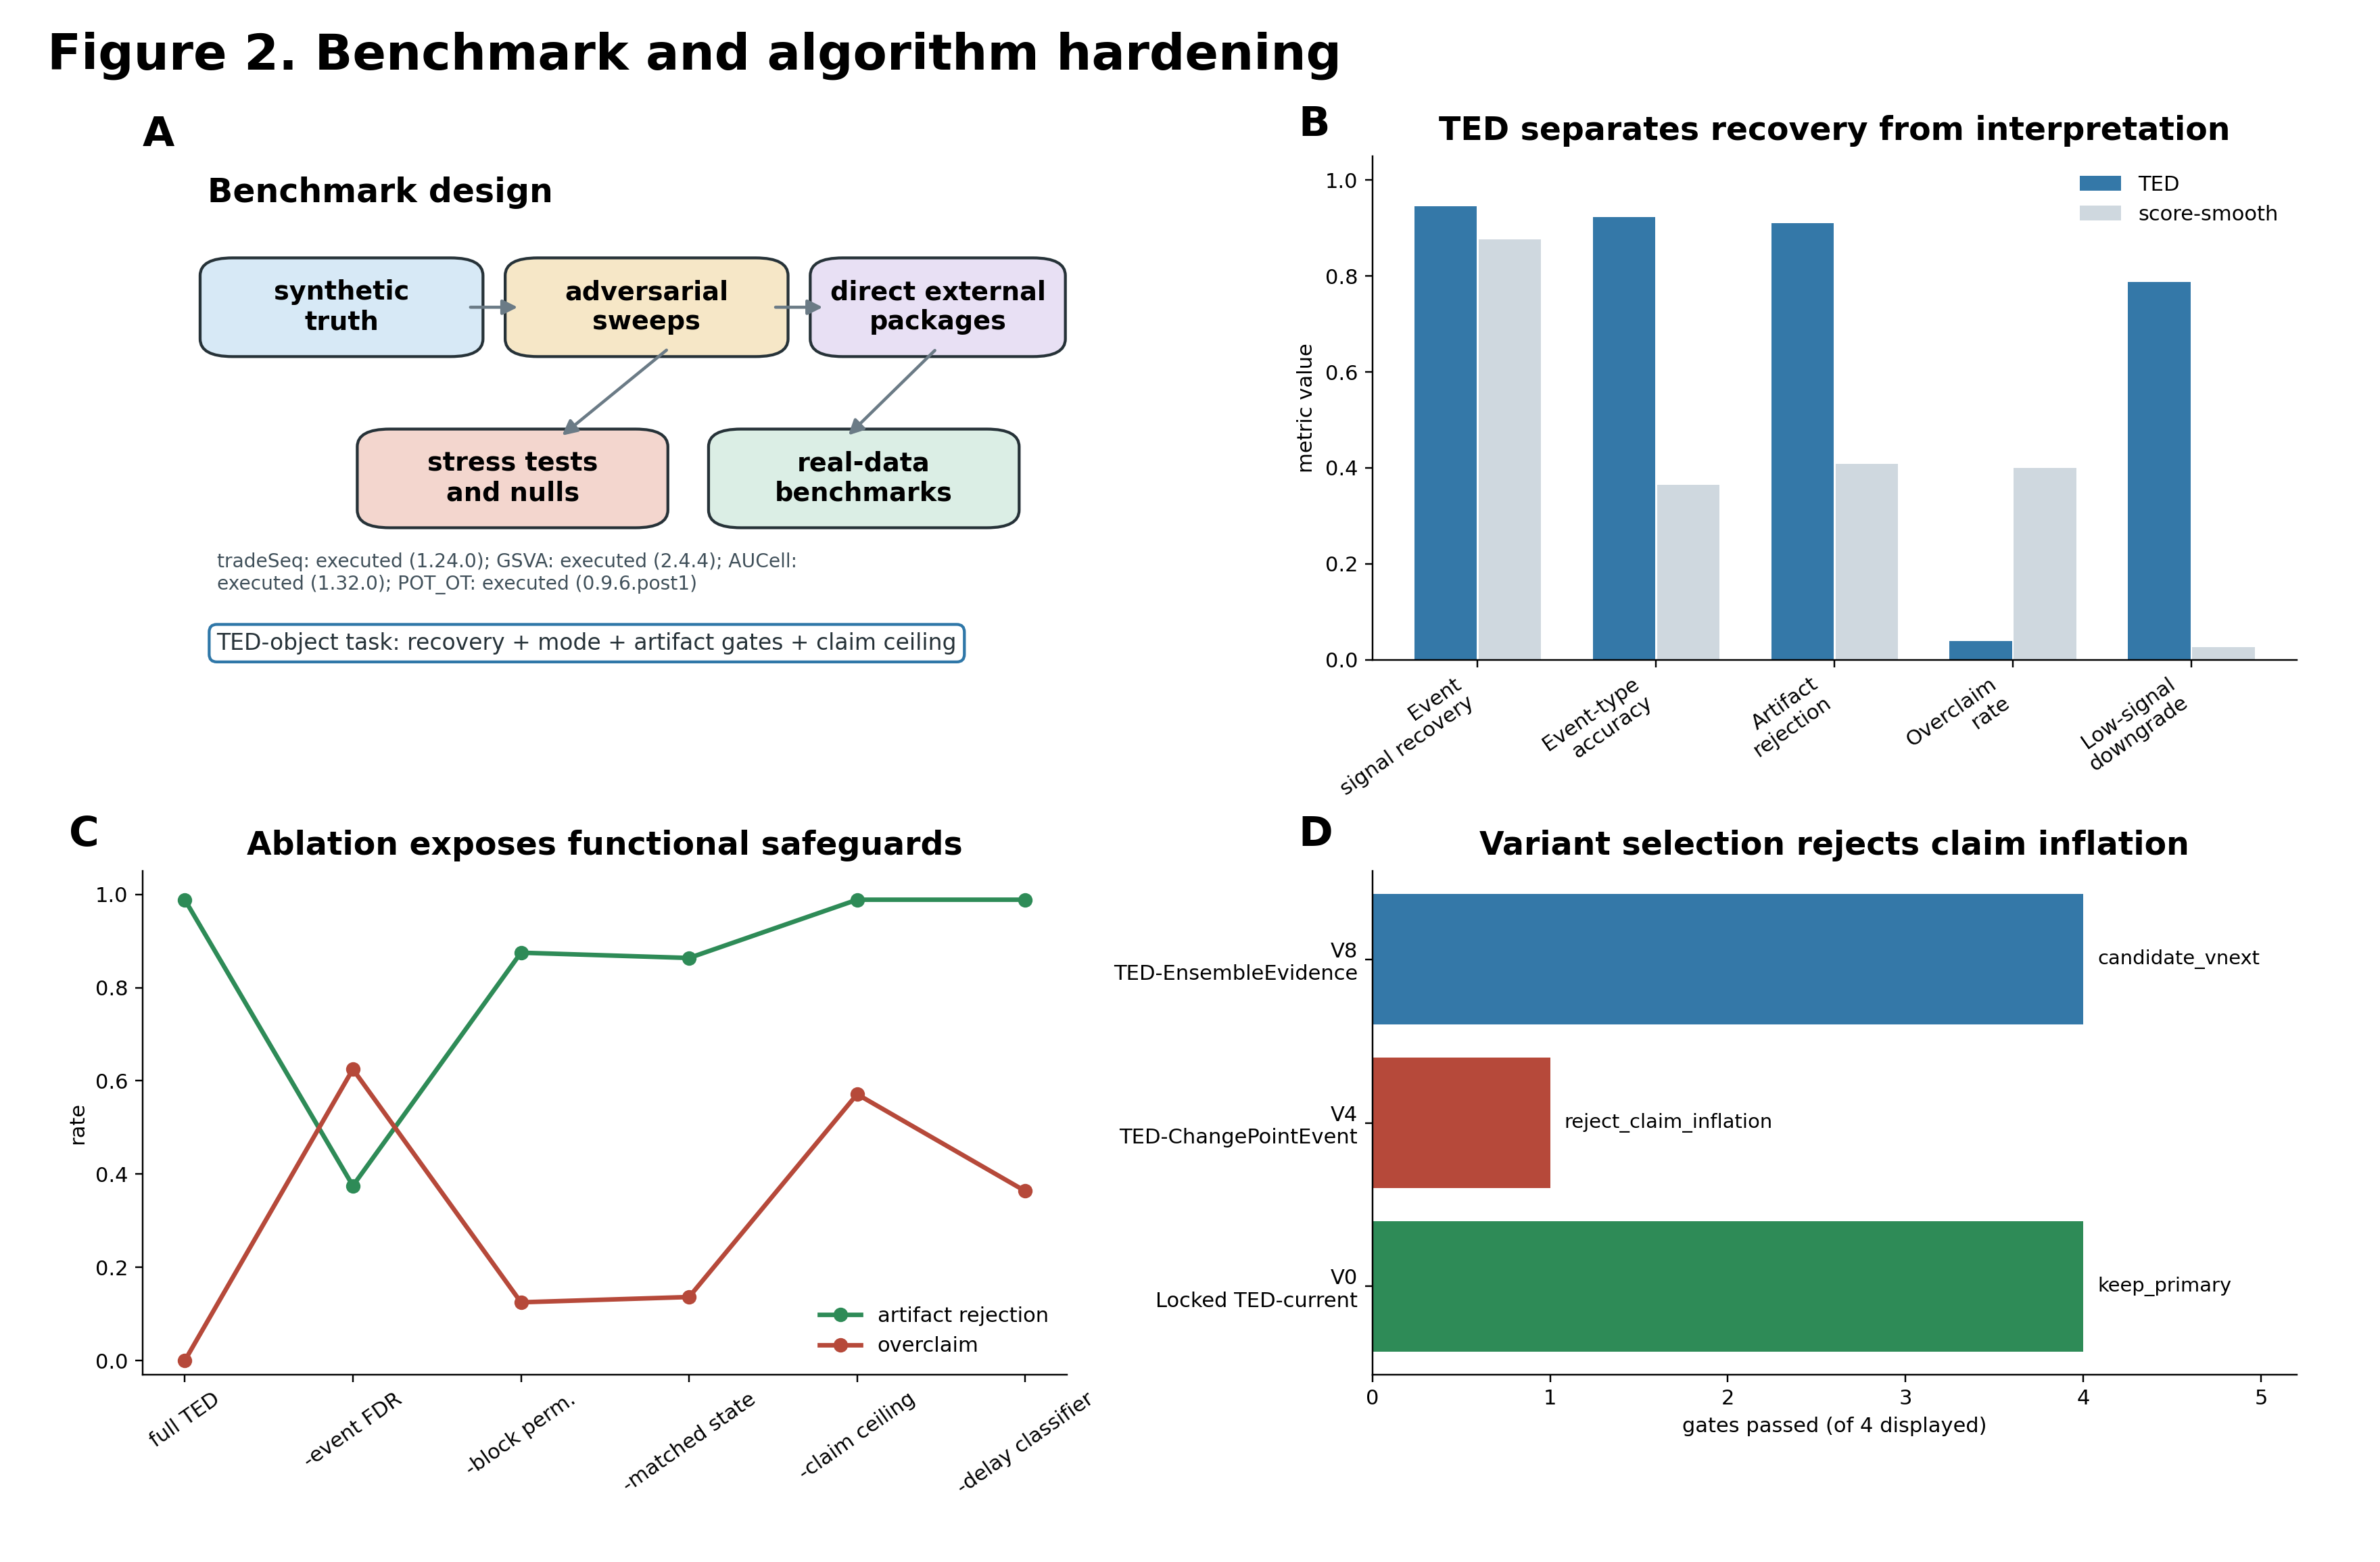
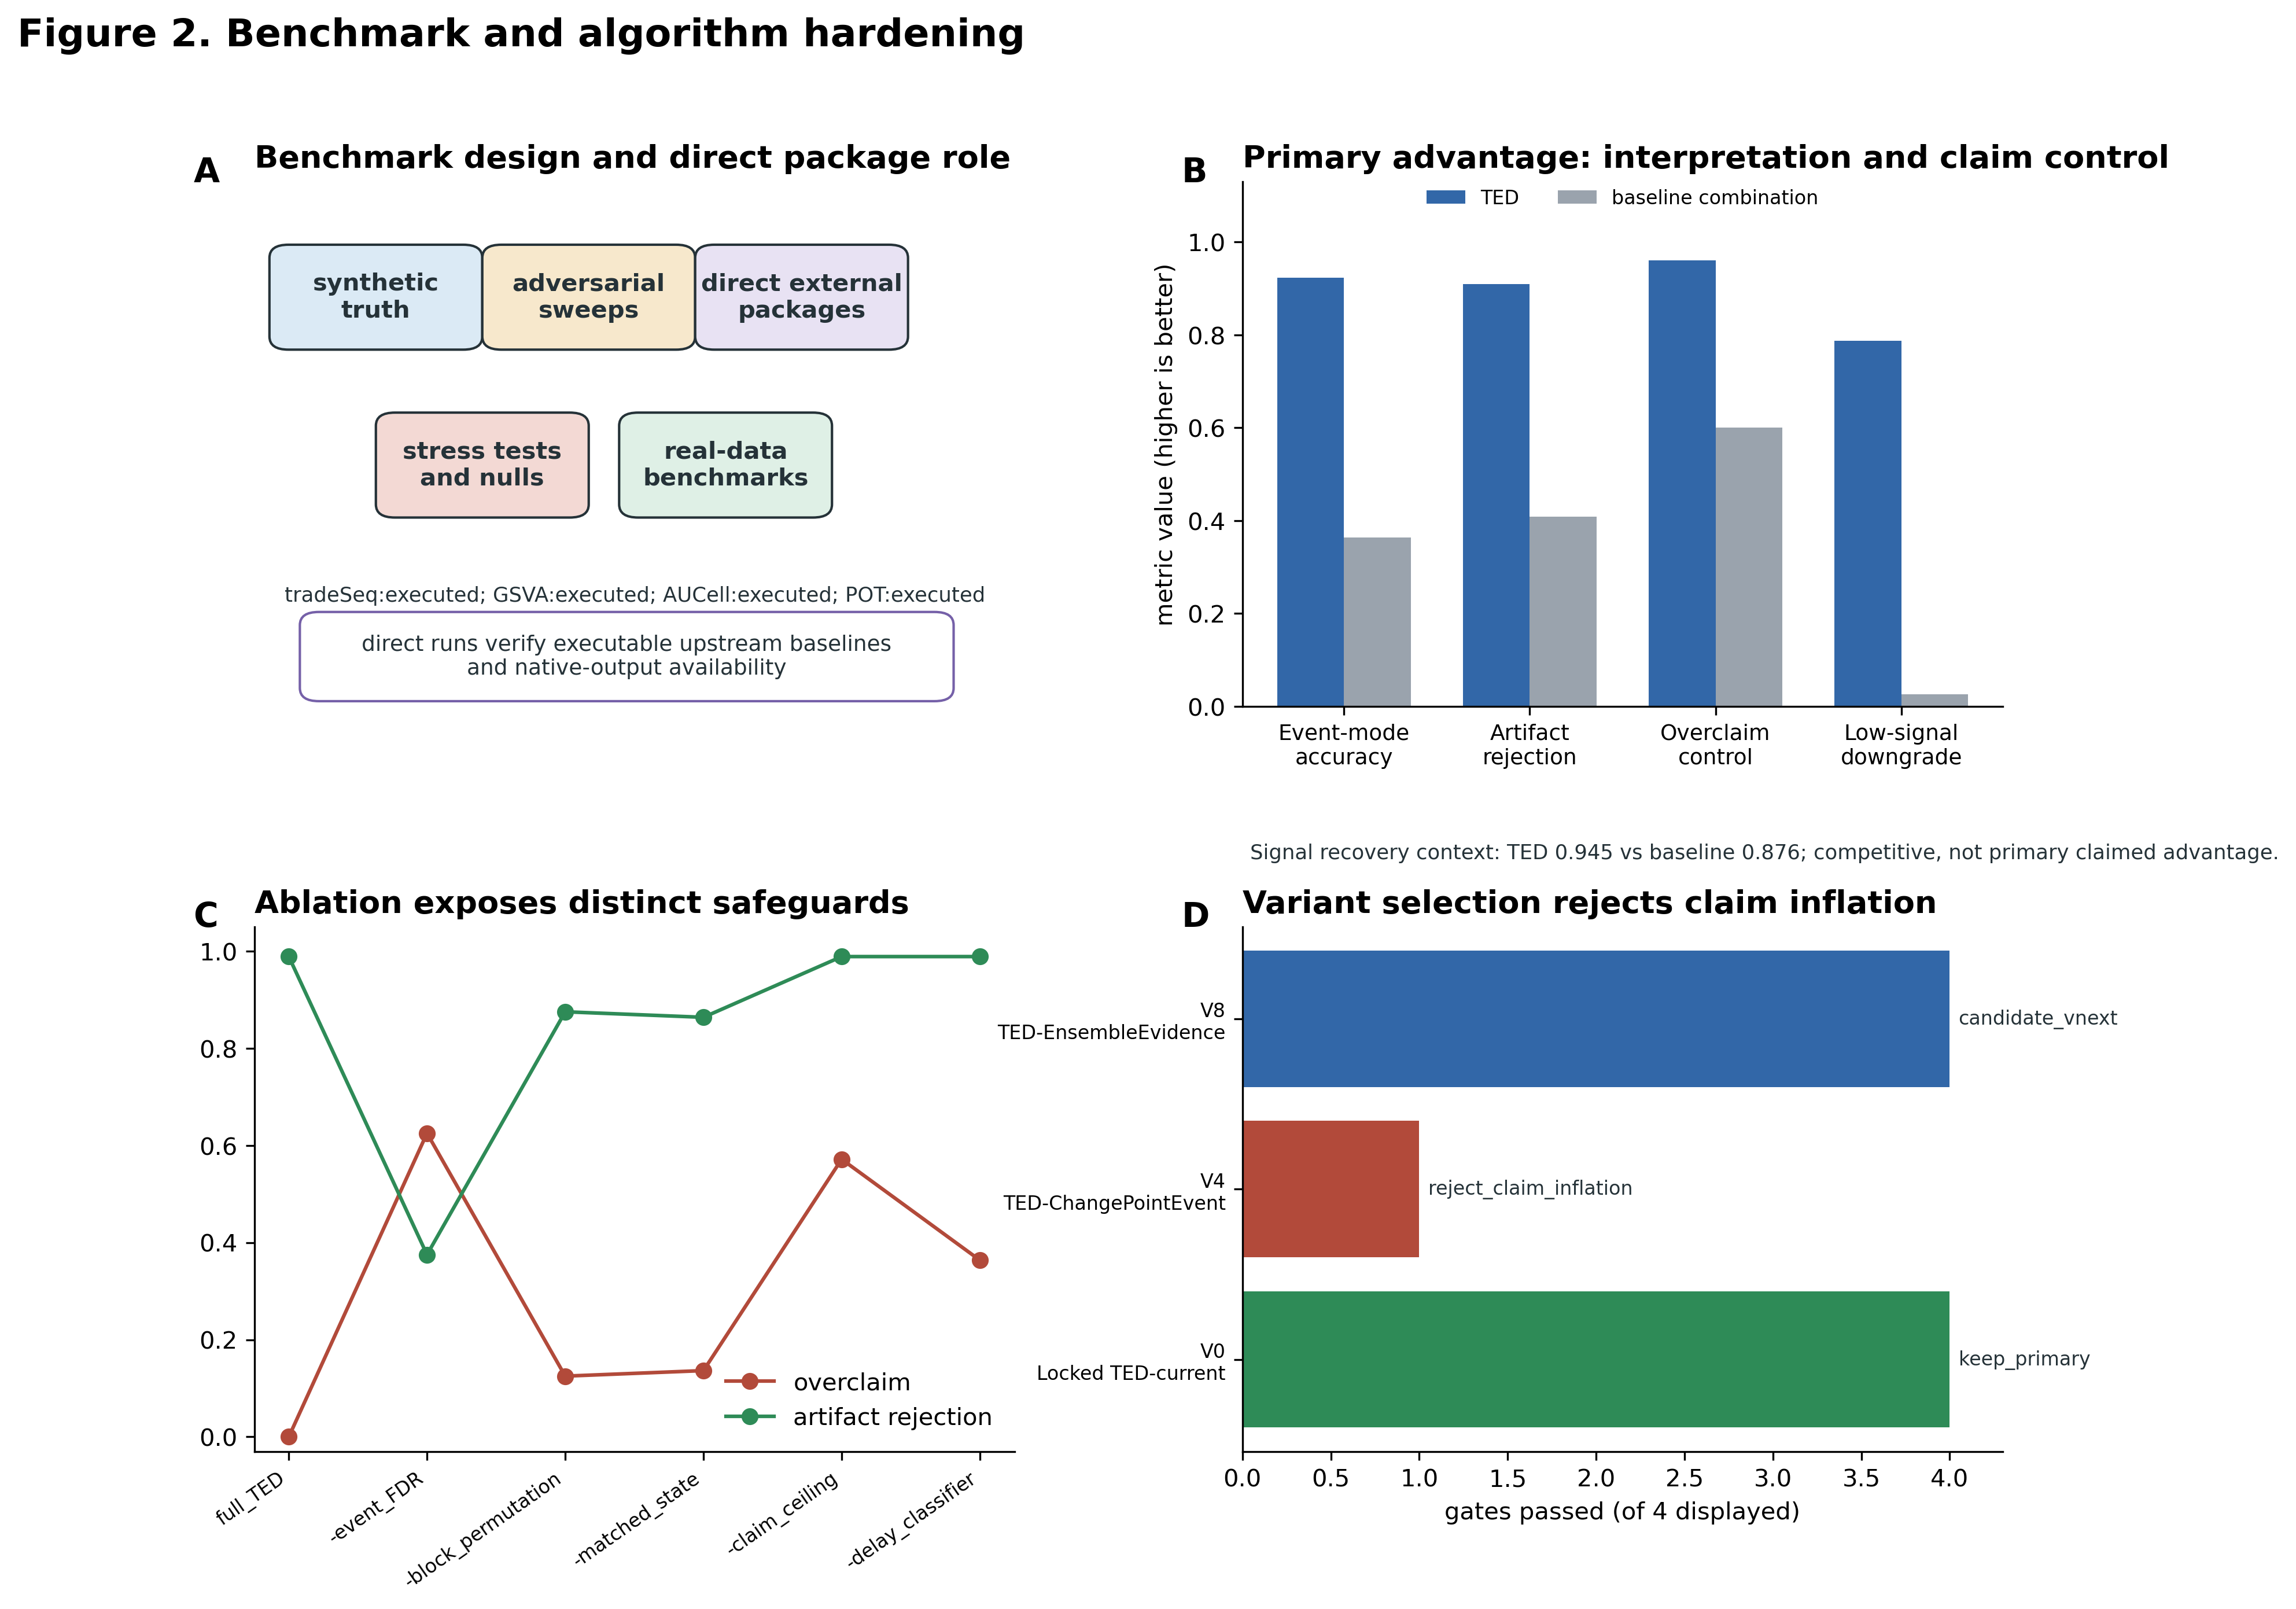
Clarify baseline role and figure 2 emphasis

diff --git a/reports/genome_biology_release_candidate_status.md b/reports/genome_biology_release_candidate_status.md
@@ -1,8 +1,8 @@
 # Genome Biology Release Candidate Audit
 
 - Repository: `https://github.com/shayuanxukuang/pyfgsea-TED.git`
-- Release tag: `ted-gb-rc4`
-- Release commit: recorded in GitHub release metadata for tag `ted-gb-rc4`
+- Release tag: `ted-gb-rc5`
+- Release commit: recorded in GitHub release metadata for tag `ted-gb-rc5`
 - Zenodo DOI: `10.5281/zenodo.20224518`
 - License: MIT
 - Passed audit items: 14/15